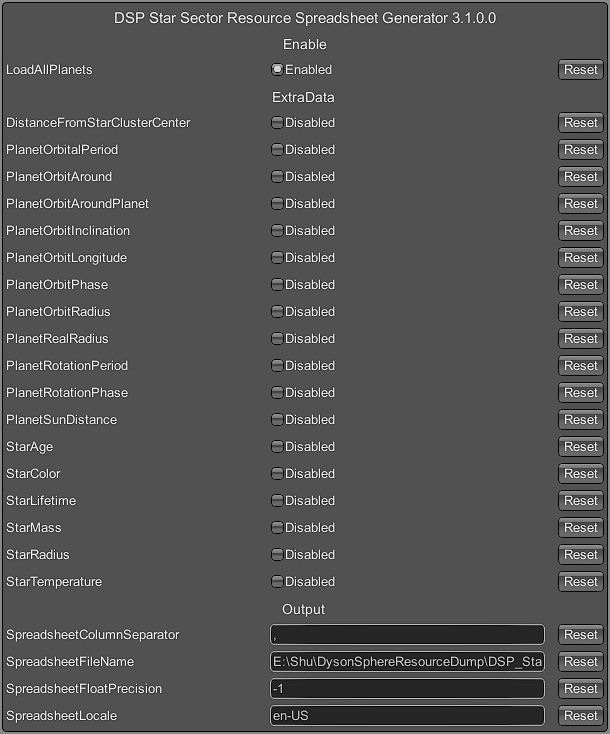
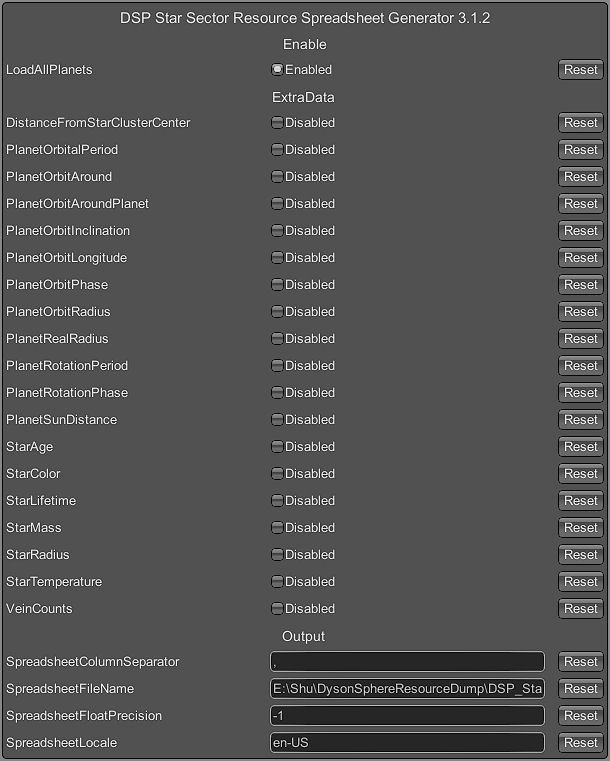
Fixed 2 errors & added vein counts + cleanup

diff --git a/DSPSpreadsheetGenMod.cs b/DSPSpreadsheetGenMod.cs
@@ -35,24 +35,22 @@ namespace StarSectorResourceSpreadsheetGenerator
     {
         public const string pluginGuid = "greyhak.dysonsphereprogram.resourcespreadsheetgen";
         public const string pluginName = "DSP Star Sector Resource Spreadsheet Generator";
-        public const string pluginVersion = "3.1.1";
+        public const string pluginVersion = "3.1.2";
 
-        public static BepInEx.Configuration.ConfigEntry<bool> enablePlanetLoadingFlag;
-        public static bool enableOnStartTrigger = false;
-        public static bool enableOnPauseTrigger = false;
         public static bool spreadsheetGenRequestFlag = false;
         public static List<PlanetData> planetsToLoad = new List<PlanetData> { };
         public static Dictionary<int, string> planetResourceData = new Dictionary<int, string>();
         public static bool checkForPlanetsToUnload = false;
-        public static BepInEx.Configuration.ConfigEntry<string> spreadsheetFileNameTemplate;
-        public static BepInEx.Configuration.ConfigEntry<string> spreadsheetColumnSeparator;
         public static CultureInfo spreadsheetLocale = CultureInfo.CurrentUICulture;
-        public static BepInEx.Configuration.ConfigEntry<int> spreadsheetFloatPrecision;
         new internal static ManualLogSource Logger;
         new internal static BepInEx.Configuration.ConfigFile Config;
         public static readonly int[] gases = { 1120, 1121, 1011 };
         public static int planetCount = 0;
-        
+
+        public static BepInEx.Configuration.ConfigEntry<bool> enablePlanetLoadingFlag;
+        public static BepInEx.Configuration.ConfigEntry<string> spreadsheetFileNameTemplate;
+        public static BepInEx.Configuration.ConfigEntry<string> spreadsheetColumnSeparator;
+        public static BepInEx.Configuration.ConfigEntry<int> spreadsheetFloatPrecision;
         public class ConfigExtraFlags
         {
             public static BepInEx.Configuration.ConfigEntry<bool> starAge;
@@ -73,6 +71,7 @@ namespace StarSectorResourceSpreadsheetGenerator
             public static BepInEx.Configuration.ConfigEntry<bool> planetRotationPeriod;
             public static BepInEx.Configuration.ConfigEntry<bool> planetRotationPhase;
             public static BepInEx.Configuration.ConfigEntry<bool> planetSunDistance;
+            public static BepInEx.Configuration.ConfigEntry<bool> veinCounts;
         }
 
         private static Thread veinGenerationThread;
@@ -114,6 +113,7 @@ namespace StarSectorResourceSpreadsheetGenerator
             ConfigExtraFlags.planetRotationPeriod = Config.Bind<bool>("ExtraData", "PlanetRotationPeriod", false, "Add planets' rotation period to the spreadsheet");
             ConfigExtraFlags.planetRotationPhase = Config.Bind<bool>("ExtraData", "PlanetRotationPhase", false, "Add planets' rotation phase to the spreadsheet");
             ConfigExtraFlags.planetSunDistance = Config.Bind<bool>("ExtraData", "PlanetSunDistance", false, "Add planets' distance from their star to the spreadsheet");
+            ConfigExtraFlags.veinCounts = Config.Bind<bool>("ExtraData", "VeinCounts", false, "Add the number of veins for each vein resource in addition to the total number of items.");
 
             Config.SettingChanged += OnConfigSettingChanged;
 
@@ -140,6 +140,10 @@ namespace StarSectorResourceSpreadsheetGenerator
                 spreadsheetGenRequestFlag = false;
                 planetsToLoad.Clear();
                 planetResourceData.Clear();
+                if (progressImage != null)
+                {
+                    progressImage.fillAmount = 0;
+                }
                 Monitor.Exit(planetComputeThreadMutexLock);
 
                 if (changedSetting.Section == "Output" && changedSetting.Key == "SpreadsheetLocale")
@@ -177,7 +181,7 @@ namespace StarSectorResourceSpreadsheetGenerator
             {
                 foreach (PlanetData planet in star.planets)
                 {
-                    if (!planetResourceData.ContainsKey(planet.id) && (planet.type != EPlanetType.Gas) && (planet.veinGroups.Length == 0))
+                    if (enablePlanetLoadingFlag.Value && (planet.type != EPlanetType.Gas) && (planet.veinGroups.Length == 0) && !planetResourceData.ContainsKey(planet.id))
                     {
                         planetsToLoad.Add(planet);
 
@@ -369,9 +373,19 @@ namespace StarSectorResourceSpreadsheetGenerator
                 sb.Append("Singularity").Append(spreadsheetColumnSeparator.Value);
                 sb.Append("Ocean").Append(spreadsheetColumnSeparator.Value);
 
+                EVeinType type = (EVeinType)1;
                 foreach (VeinProto item in LDB.veins.dataArray)
                 {
-                    sb.Append(item.name).Append(spreadsheetColumnSeparator.Value);
+                    if (type == EVeinType.Oil || !ConfigExtraFlags.veinCounts.Value)
+                    {
+                        sb.Append(item.name).Append(spreadsheetColumnSeparator.Value);
+                    }
+                    else
+                    {
+                        sb.Append(item.name + " (items)").Append(spreadsheetColumnSeparator.Value);
+                        sb.Append(item.name + " (veins)").Append(spreadsheetColumnSeparator.Value);
+                    }
+                    type++;
                 }
                 foreach (int item in gases)
                 {
@@ -505,9 +519,15 @@ namespace StarSectorResourceSpreadsheetGenerator
             if (planet.type == EPlanetType.Gas)
             {
                 sb.Append("None").Append(spreadsheetColumnSeparator.Value);  // Ocean
+                EVeinType type = (EVeinType)1;
                 foreach (VeinProto item in LDB.veins.dataArray)
                 {
                     sb.Append("0").Append(spreadsheetColumnSeparator.Value);
+                    if (type != EVeinType.Oil && ConfigExtraFlags.veinCounts.Value)
+                    {
+                        sb.Append("0").Append(spreadsheetColumnSeparator.Value);
+                    }
+                    type++;
                 }
                 foreach (int item in gases)
                 {
@@ -540,9 +560,15 @@ namespace StarSectorResourceSpreadsheetGenerator
 
                 if (planet.veinGroups.Length == 0)
                 {
+                    EVeinType type = (EVeinType)1;
                     foreach (VeinProto item in LDB.veins.dataArray)
                     {
                         sb.Append("Unloaded").Append(spreadsheetColumnSeparator.Value);
+                        if (type != EVeinType.Oil && ConfigExtraFlags.veinCounts.Value)
+                        {
+                            sb.Append("Unloaded").Append(spreadsheetColumnSeparator.Value);
+                        }
+                        type++;
                     }
                 }
                 else
@@ -558,6 +584,20 @@ namespace StarSectorResourceSpreadsheetGenerator
                         else
                         {
                             sb.Append(amount.ToString(spreadsheetLocale)).Append(spreadsheetColumnSeparator.Value);
+
+                            if (ConfigExtraFlags.veinCounts.Value)
+                            {
+                                long numVeins = 0;
+                                foreach (PlanetData.VeinGroup veinGroup in planet.veinGroups)
+                                {
+                                    if (veinGroup.type == type)
+                                    {
+                                        numVeins += veinGroup.count;
+                                    }
+                                }
+
+                                sb.Append(numVeins.ToString(spreadsheetLocale)).Append(spreadsheetColumnSeparator.Value);
+                            }
                         }
                         type++;
                     }
@@ -597,7 +637,7 @@ namespace StarSectorResourceSpreadsheetGenerator
 
             if (GameMain.instance != null && GameObject.Find("Game Menu/button-1-bg"))
             {
-                if (GameObject.Find("greyhak-csv-trigger-button"))
+                if (progressImage != null)
                 {
                     progressImage.fillAmount = 0;
                 }
@@ -638,20 +678,6 @@ namespace StarSectorResourceSpreadsheetGenerator
                     progressImage.sprite = GameObject.Instantiate<Sprite>(sprite);
                     Logger.LogInfo("Button load complete");
                 }
-            }
-
-            if (enableOnStartTrigger)
-            {
-                QueuePlanetLoading();
-            }
-        }
-
-        [HarmonyPrefix, HarmonyPatch(typeof(GameMain), "Pause")]
-        public static void GameMain_Pause_Prefix()
-        {
-            if (enableOnPauseTrigger)
-            {
-                QueuePlanetLoading();
             }
         }
 

diff --git a/Properties/AssemblyInfo.cs b/Properties/AssemblyInfo.cs
@@ -41,5 +41,5 @@ using System.Runtime.InteropServices;
 // You can specify all the values or you can default the Build and Revision Numbers
 // by using the '*' as shown below:
 // [assembly: AssemblyVersion("1.0.*")]
-[assembly: AssemblyVersion("3.1.1")]
-[assembly: AssemblyFileVersion("3.1.1")]
+[assembly: AssemblyVersion("3.1.2")]
+[assembly: AssemblyFileVersion("3.1.2")]

diff --git a/README.md b/README.md
@@ -52,6 +52,7 @@ The generated spreadsheet will contain columns for the following data.
    - _ Optical grating crystal quantity
    - _ Spiniform stalagmite crystal quantity
    - _ Unipolar magnet quantity
+   - _ Number of veins for each resource can be configurable enabled
  - Gas Planet Resource
    - _ Hydrogen rate
    - _ Deuterium rate
@@ -162,6 +163,11 @@ The source code for this mod is available for download, review and forking on Gi
 在BSD3条例许可下，本mod的源代码可供在[GitHub](https://github.com/GreyHak/dsp-csv-gen)下载、查看、克隆。
 
 ## Change Log
+### v3.1.2
+ - Fixed an error which wasn't outputting the available information when configured not to load planets.
+ - Added new optional output for the number of veins of each resource on a planet.
+ - Fixed a graphical glitch if config changes were made in game while spreadsheet generation was in progress.
+ - Minor code cleanup for efficiency.
 ### v3.1.1
  - Minor bug fix in log entry of filename.
 ### v3.1.0
